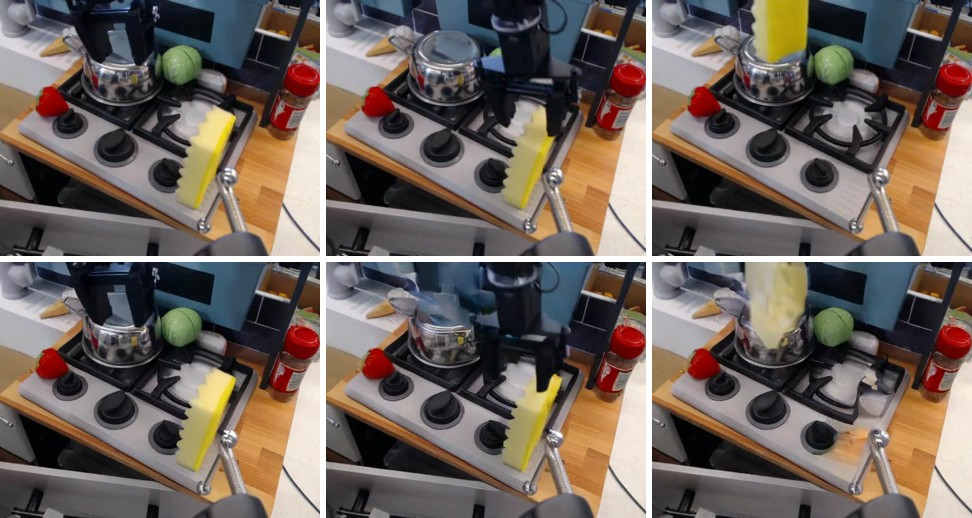
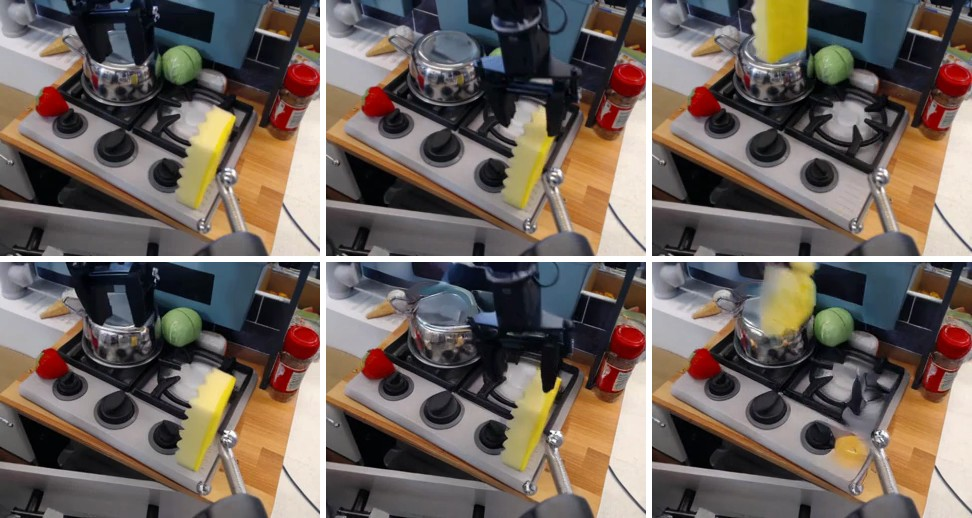
docs(video_eval): judges and frame strips on the 105-clip videos
The two vision-language judges now score the same 105 clips and videos as every other metric; the strips come from those videos, and the caption no longer claims that EVID catches one object failure but not the other.

diff --git a/video_eval/paper/sec/6_results.tex b/video_eval/paper/sec/6_results.tex
@@ -139,12 +139,12 @@ The arm motion in these videos is therefore almost always feasible; their failur
     \includegraphics[width=0.322\textwidth]{fig/strip_1183_0_0.jpg} \\
     (a) ``put eggplant in pot'': success &
     (b) ``put the toy in the vessel'': the toy vanishes &
-    (c) ``wipe pot with sponge'': the gripper dissolves \\
-    PSNR 23.33, EVID 1.18 vs 1.00\,cm &
-    PSNR 24.55, EVID 2.57 vs 2.52\,cm &
-    PSNR 22.27, EVID 2.95 vs 1.80\,cm \\
+    (c) ``wipe pot with sponge'': the sponge breaks up \\
+    PSNR 23.85, EVID 1.04 vs 1.00\,cm &
+    PSNR 24.01, EVID 3.28 vs 2.52\,cm &
+    PSNR 21.90, EVID 2.59 vs 1.80\,cm \\
   \end{tabular}
-  \caption{Frames 0, 8, and 15 of the real video (top rows) and of IRASim-Frame-Ada from the same actions (bottom rows); both judges agree on each verdict. The EVID errors are given for the generated and the real video. In (b) the arm follows the actions and the PSNR is the highest of the three, yet the object vanishes, which neither metric detects; in (c) the contact failure also shows in the EVID error.}
+  \caption{Frames 0, 8, and 15 of the real video (top rows) and of IRASim-Frame-Ada from the same actions (bottom rows); both judges agree on each verdict. EVID errors are given for the generated and the real video. Both object failures raise the EVID error by less than 1\,cm over the real video, and PSNR rates (b) highest of the three: the judges see these failures, neither metric does.}
   \label{fig:strips}
 \end{figure*}
 
@@ -155,8 +155,8 @@ On the clip ``move the toy and put it in the vessel'' it even replaces the Widow
 
 \paragraph{Smoothness, objects, and outcomes.}
 On the 105 clips, DINOv2 adjacent-frame similarity is 0.952 for real clips and 0.925 to 0.935 for the action-conditioned models, while the still video scores 1.000, so these metrics measure stability rather than correct motion.
-On the 24 core clips, two vision-language judges, gemini-3.8-flash and gpt-6.1-sol, rate physical plausibility and whether the final state matches the real clip; they agree on the ranking but not on strictness, flagging 21\% and 4\% of real clips.
-The most frequent violation for every latent model is an object that changes or vanishes, in 46\% and 17\% of Frame-Ada clips, and the still video is judged plausible every time, caught only by the outcome question with 0.00 and 0.04.
+Two vision-language judges, gemini-3.8-flash and gpt-6.1-sol, rate physical plausibility and whether the final state matches the real clip; they differ in strictness, flagging 32\% and 1\% of real clips as implausible, and agree on plausibility for only 42 to 69\% of the clips of each set.
+Objects that change or vanish are the most frequent violation of every IRASim model, in 47\% and 10\% of Frame-Ada clips, while the still video is judged plausible in 95\% and 100\% of clips and is caught only by the outcome question, which it passes in 0\% and 6\% of clips.
 
 \paragraph{Best-of-$N$ selection.}
 For each of the 24 core clips we generate six Frame-Ada videos and keep the one with the lowest EVID error.

diff --git a/video_eval/paper/sec/7_analysis.tex b/video_eval/paper/sec/7_analysis.tex
@@ -14,7 +14,7 @@ Temporal consistency is close to the real videos, its two seeds do not differ si
 \textit{L1, objects do not keep their identity.}
 The most frequent violation found by the judges is an object that changes shape or vanishes, typically once the gripper holds it (\cref{fig:strips}b).
 \textit{L2, correct motion does not imply the correct outcome.}
-Only 50\% and 75\% of Frame-Ada clips end in the same state as the real clip according to the two judges.
+Only 51\% and 77\% of Frame-Ada clips end in the same state as the real clip according to the two judges.
 \textit{L3, errors grow with contact and time.}
 The gap between the EVID error of Frame-Ada and that of the real video is largest for wipe (\cref{fig:strips}c), turn, slide, and topple, at 0.5 to 0.7\,cm, and close to zero for open, flip, and fold.
 \textit{L4, short clips of one embodiment.}
